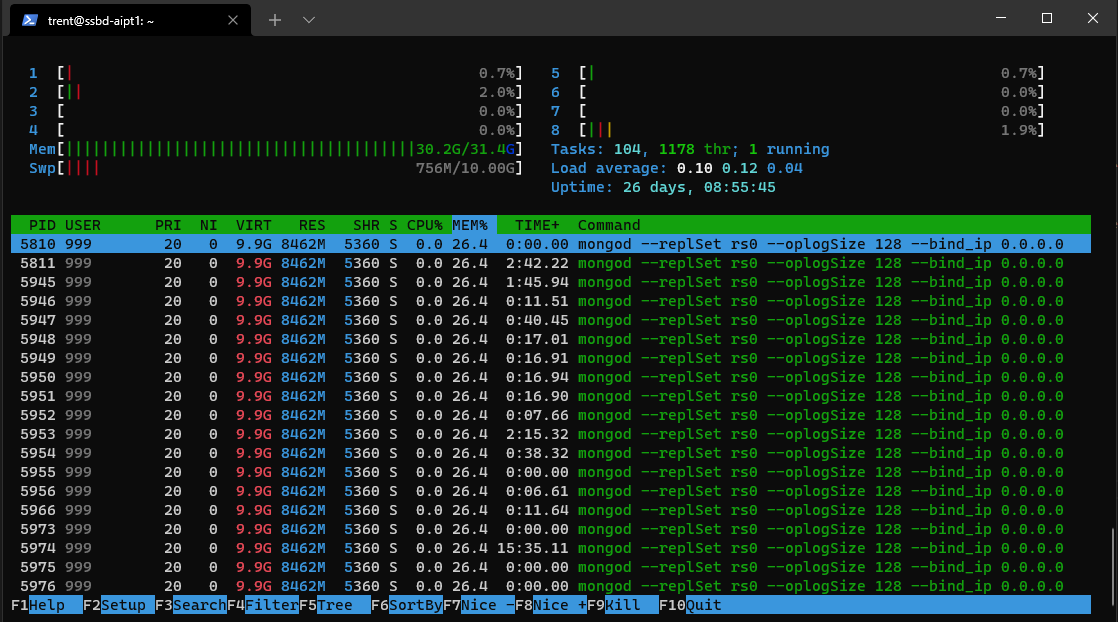
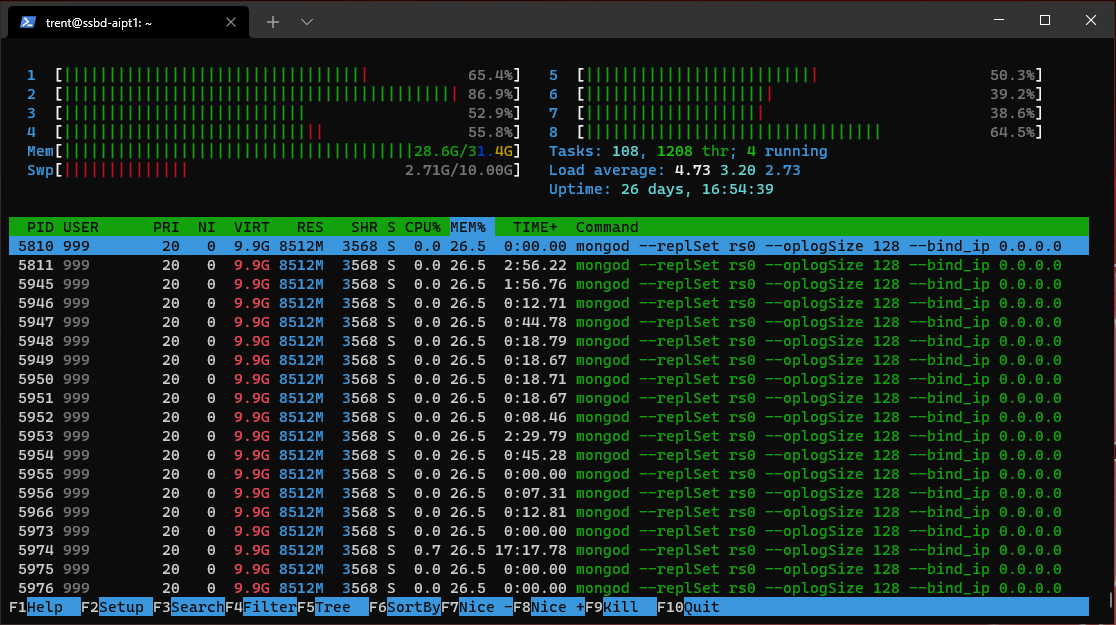
WIP: Improved readme by adding more explanation and further screenshots.

diff --git a/readme.md b/readme.md
@@ -24,6 +24,8 @@ We needed to use mongodb as our betfair data was in json format.
 
 Once we had the base architecture we added a script to load in our data, an additional spark worker (so all team members would have a worker) and another docker container for MySQL to store the results from our analysis.
 
+As can be seen from the below, in the end we had 9 docker containers running and networked together. A future improvement might be to split this architecture over multiple VMs, such as having MongoDB containers in 1 VM, Spark containers in a 2nd VM and finally Jupyterlab and MySQL containers in a 3rd light VM.
+
 ![Image](images/assignment_architecture.png)
 
 # Why docker?
@@ -44,30 +46,83 @@ We wanted something more powerful to run our setup on than our local laptops cou
 
 We settled on GCP because of our prior knowledge, its ease of use and the $300 free starting credit Google give you.
 
+Our GCP VM spec was: Ubuntu 18.04 LTS, 8 vCPUs, 32GB RAM, 100GB SSD. The monthly cost is ~$220.
+
 ![Image](images/GCP_VM.png)
+
+htop
+
+As can be seen below, the GCP VM is being pushed hard, three spark workers are using the 8 vCPUs, all the availbe RAM is consumed and the VM is now eating into the 10GB of SWAP memory we added.
 
 ![Image](images/htop.png)
 
+On this VM we installed miniconda and docker. Within a conda environment we git cloned our repo, installed the needed libraries and used 'docker-compose up' to run our environment.
+
+GCP conda info
+
+![Image](images/GCP_conda.png)
+
+Docker containers
+
 ![Image](images/docker_containers.png)
+
+Our GitHub repo on our GCP VM
+
+![Image](images/GCP_github_repo.png)
+
+We added two rules in our firewall to allow jupterlab running on port 8888 traffic through from external locations. We also did the same for 8080, which is the port Spark Console was running on.
+
+![Image](images/firewall_gcp.png)
+
+Jupyterlab
+
+![Image](images/jupyterlab.png)
+
+Spark Console
+
+![Image](images/spark_console.png)
+
 
 # Loading the data
 
 To load the data we created loader.py script.
 
-We downloaded the horse racing for 2016 from Betfair, unzipped the file.
+We downloaded the horse racing for 2016 from Betfair and unzipped the file.
 
 The unzipped folder named 'BASIC' contained a series of bz2 zipped files. 
 
 We ran our script over these bz2 files and loaded every line, which represented a JSON object, straight into MongoDB.
+
+We added a logger to loader.py so we could tail loader.log as the script worked to assess it's progress (tail -100f loader.log).
+
+Link to Betfair horse racing data spec: https://historicdata.betfair.com/Betfair-Historical-Data-Feed-Specification.pdf
+
+![Image](images/betfair_historicaldata_download.png)
+
+Even though we downloaded all available betfair horse racing data from Apr 2015 to Nov 2021, we only loaded 2016's data into mongodb. 
+
+This was primarily because of performance concerns. 
+
+We thought it might take too long to analyze years worth of data on the VM when we considered how long it took to analyze three months of data on one of laptops (which had 4 CPUs and 16GB of RAM).
+
+Betfair data folders
+
+![Image](images/betfair_folders.png)
+
+Betfair data files
+
+![Image](images/betfair_files.png)
 
 # Troubleshooting
 ## Image versions Issue
 ## Docker network
 ## SWAP MEMORY
 ## Conflicting Python Versions
+change spark master and workers to use python3.7.7 (used to be 2.7), Add conda environement for jupyterlab image to include python3.7.7, out of the box it was 3.8.4 which doesnt work with pyspark udfs because there was a version mismatch with spark containers. I did this by building my own image to include a python3.7.7 environment inside the jupyterlab docker image from jupyter/pyspark-notebook:1a66dd36ff82, see: Archive/py37env.Dockerfile. This image is on dockerhub as trentsteel777/pyspark-notebook-py377:latest
+
 ## Concurrent Users
 ## Adding MySQL
 https://hub.docker.com/repository/docker/trentsteel777/pyspark-notebook-py377
-
-
+## Spark Schema Inference Issue
+Major breakthrough fixing cannot convert StringType to DoubleType error. Turns out some of the bsp have a value of NaN which was throwing spark. Solution waas to do 50K data sampling instead of the default 10K spark normally does.
 
